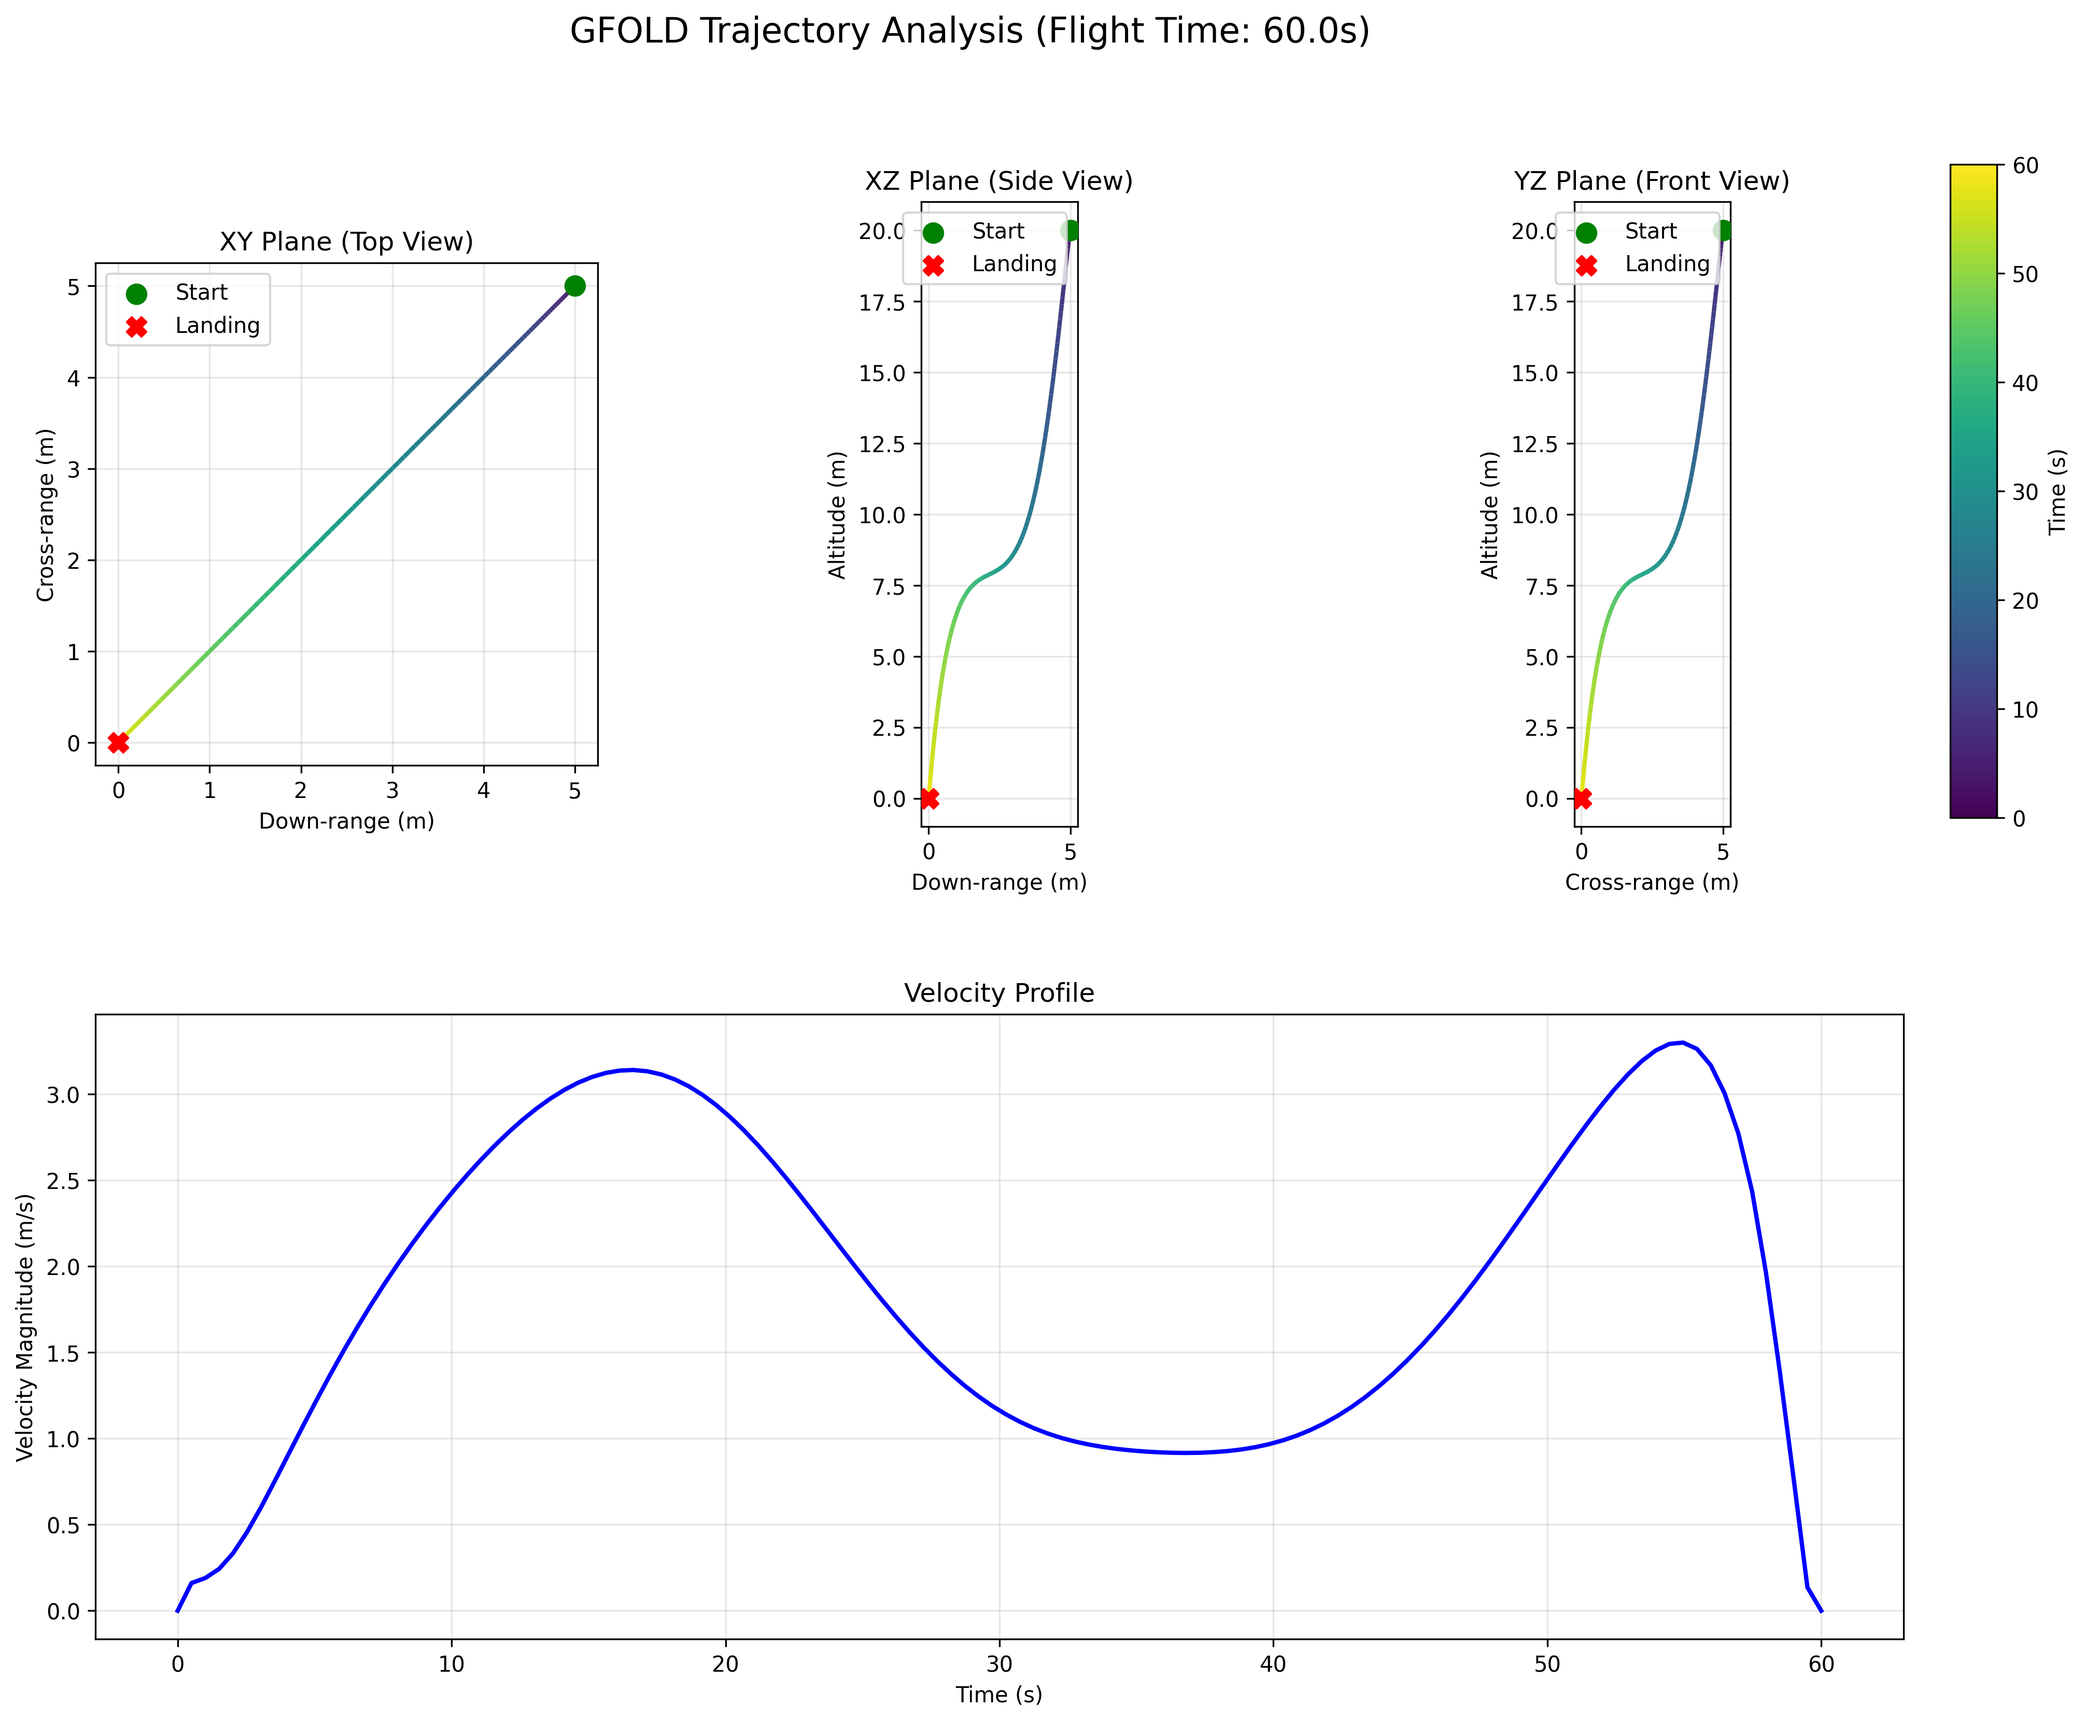
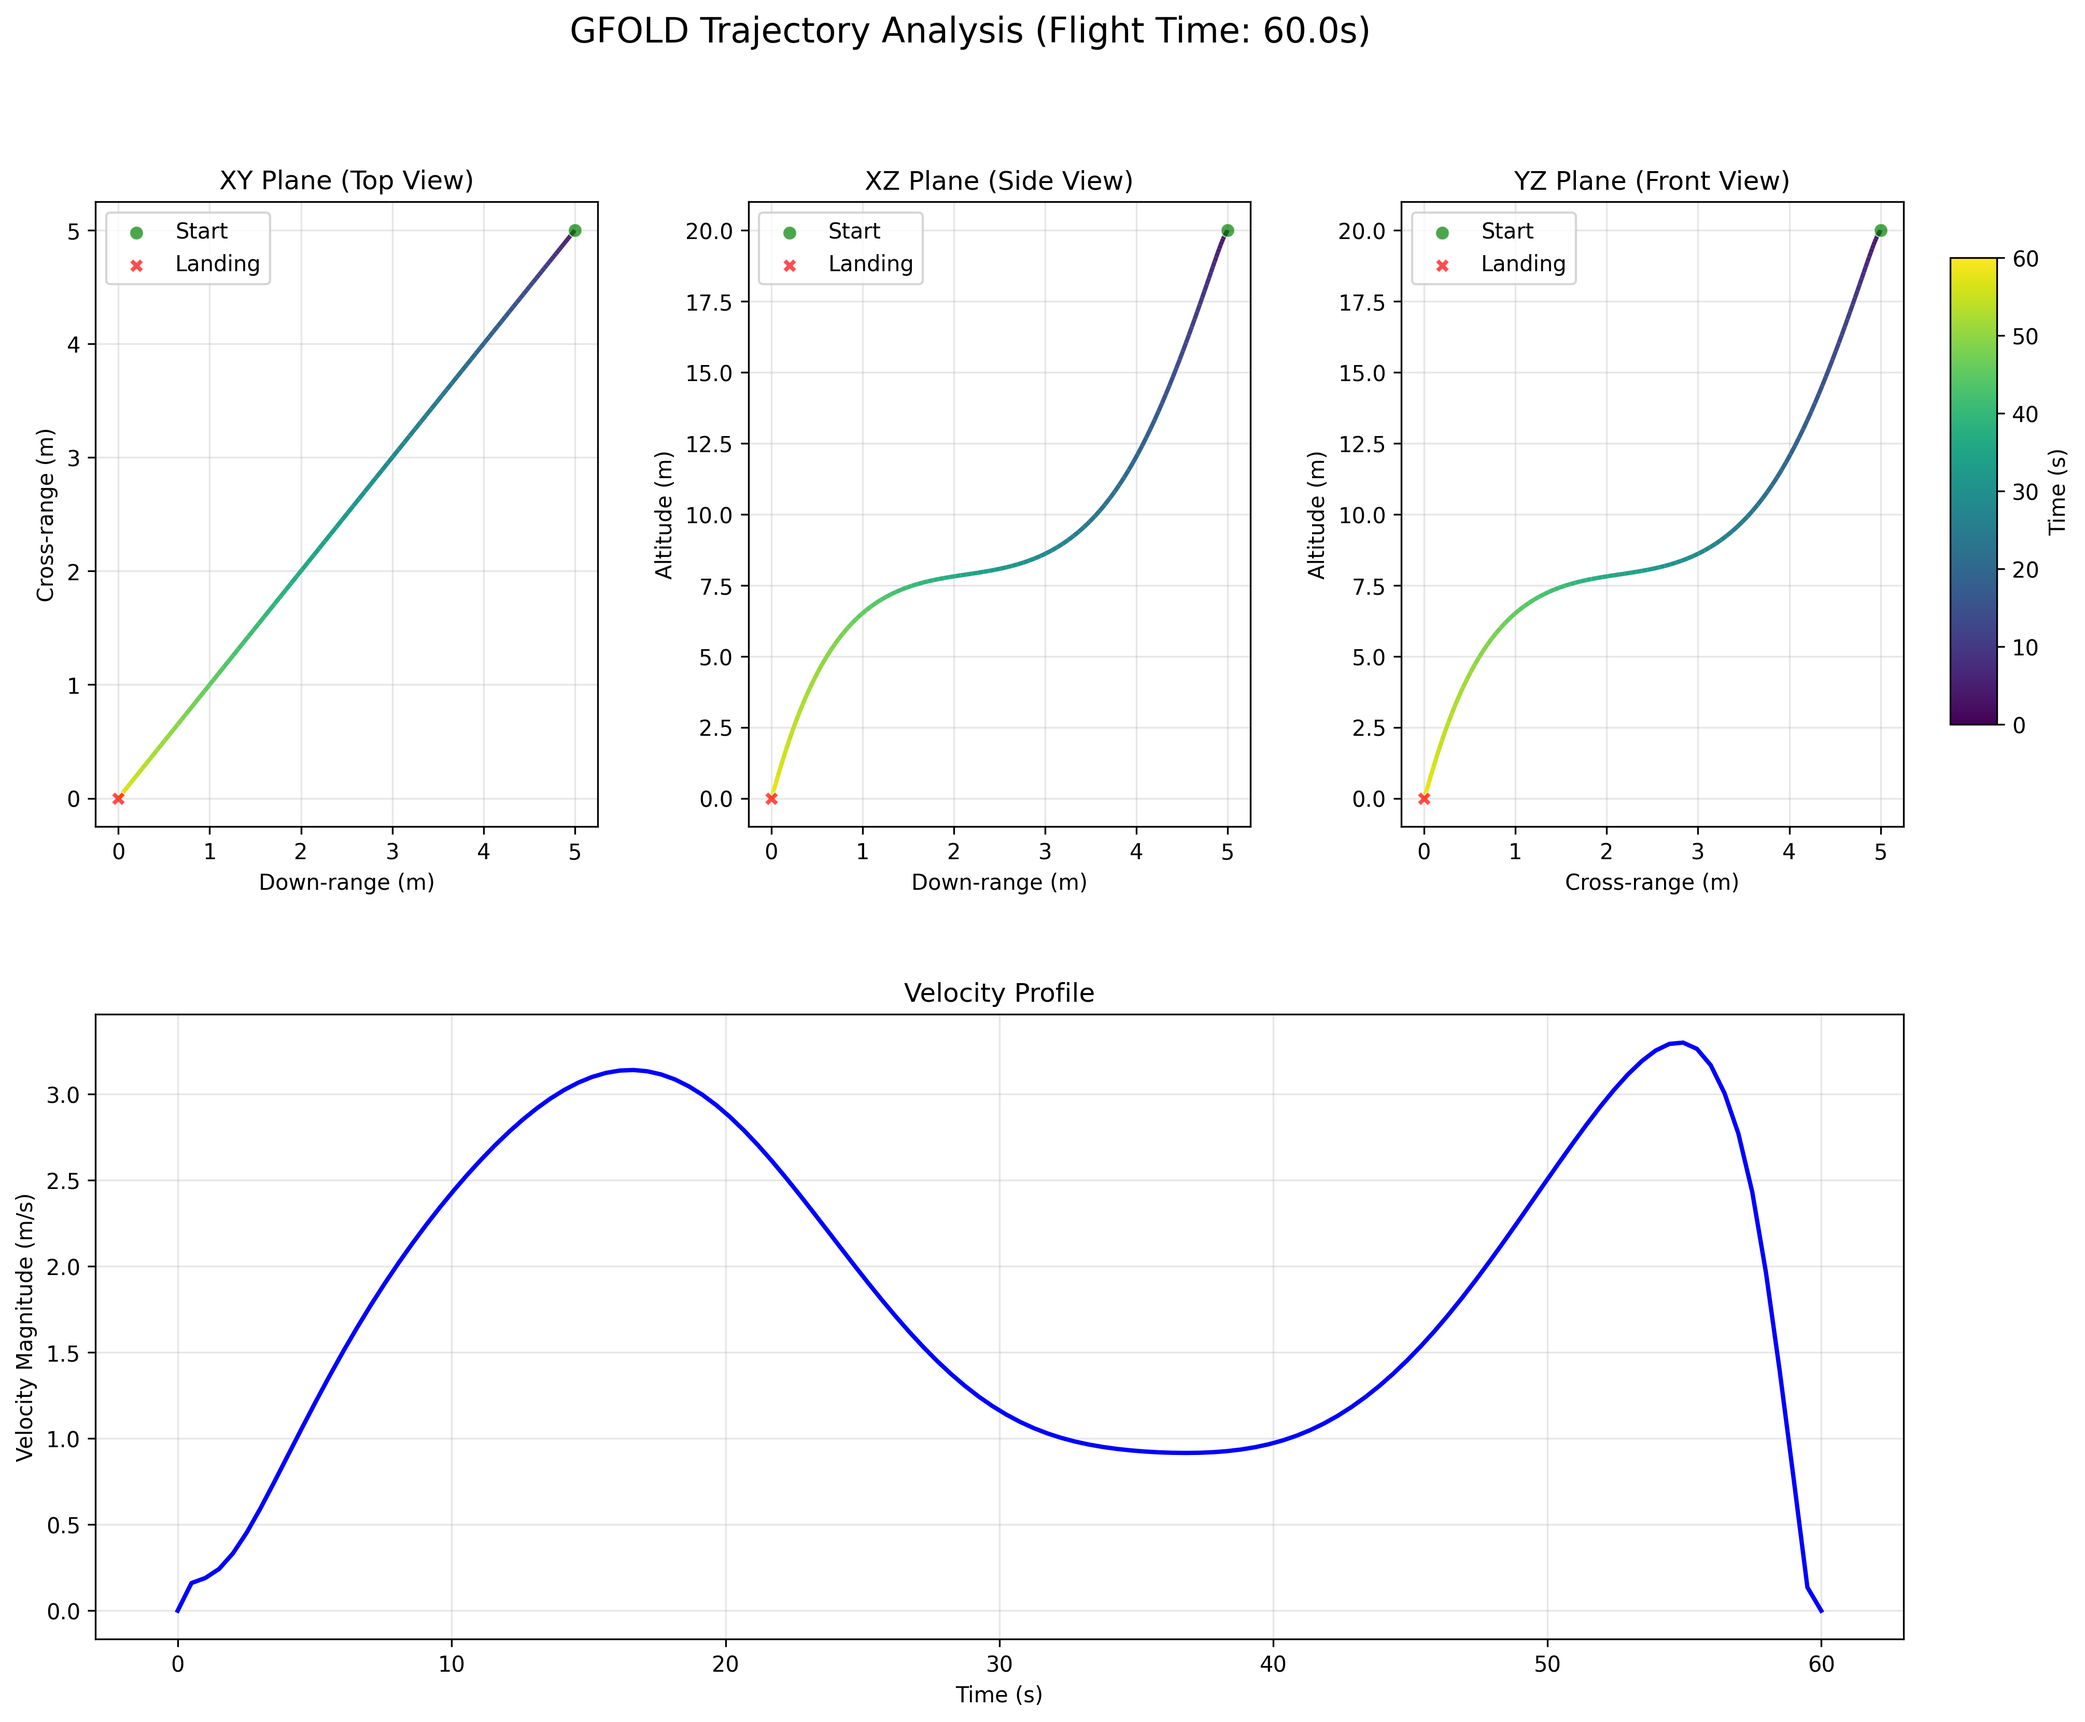
plotting adjusted

diff --git a/src/Trajectory_Generator/plotting.py b/src/Trajectory_Generator/plotting.py
@@ -121,14 +121,16 @@ class TrajectoryPlotter:
                       [z_pos[i], z_pos[i+1]],
                       color=cmap(norm(t[i])), linewidth=2)
 
-        # Add start and end markers
+        # Add start and end markers (more subtle)
         start_color = 'lime' if dark_theme else 'green'
         end_color = 'red'
 
         ax.scatter([x_pos[0]], [y_pos[0]], [z_pos[0]],
-                   color=start_color, s=100, label='Start', marker='o')
+                   color=start_color, s=60, alpha=0.7, label='Start', marker='o',
+                   edgecolors='white', linewidth=0.5)
         ax.scatter([x_pos[-1]], [y_pos[-1]], [z_pos[-1]],
-                   color=end_color, s=100, label='Landing', marker='X')
+                   color=end_color, s=60, alpha=0.7, label='Landing', marker='X',
+                   edgecolors='white', linewidth=0.5)
 
         # Add surface plane (ground level)
         if z_pos.min() <= 0:
@@ -144,8 +146,6 @@ class TrajectoryPlotter:
         ax.set_zlabel('Altitude (m)')
 
         title = f'GFOLD 3D Trajectory (Flight Time: {tf:.1f}s)'
-        if dark_theme:
-            title += ' - Dark Theme'
         ax.set_title(title)
 
         ax.legend()
@@ -153,7 +153,7 @@ class TrajectoryPlotter:
         # Add colorbar for time
         sm = cm.ScalarMappable(norm=norm, cmap=cmap)
         sm.set_array(t)
-        cbar = fig.colorbar(sm, ax=ax, shrink=0.8)
+        cbar = fig.colorbar(sm, ax=ax, shrink=0.6)
         cbar.set_label("Time (s)")
 
         # Save plot
@@ -215,20 +215,21 @@ class TrajectoryPlotter:
             lc.set_linewidth(2)
             ax.add_collection(lc)
 
-            # Add start and end markers
+            # Add start and end markers (more subtle)
             start_color = 'lime' if dark_theme else 'green'
             end_color = 'red'
-            ax.scatter(coord1[0], coord2[0], color=start_color, s=80,
-                       label='Start', marker='o', zorder=5)
-            ax.scatter(coord1[-1], coord2[-1], color=end_color, s=80,
-                       label='Landing', marker='X', zorder=5)
+            ax.scatter(coord1[0], coord2[0], color=start_color, s=40, alpha=0.7,
+                       label='Start', marker='o', zorder=5, edgecolors='white', linewidth=0.5)
+            ax.scatter(coord1[-1], coord2[-1], color=end_color, s=40, alpha=0.7,
+                       label='Landing', marker='X', zorder=5, edgecolors='white', linewidth=0.5)
 
             ax.set_xlabel(label1)
             ax.set_ylabel(label2)
             ax.set_title(title)
             ax.grid(True, alpha=0.3)
             ax.legend()
-            ax.set_aspect('equal', adjustable='box')
+            # Use consistent aspect ratio for all subplots instead of equal
+            ax.set_aspect('auto')
 
         # XY plane (Down-range vs Cross-range)
         ax1 = fig.add_subplot(gs[0, 0])
@@ -260,12 +261,10 @@ class TrajectoryPlotter:
 
         # Add overall title
         title = f'GFOLD Trajectory Analysis (Flight Time: {tf:.1f}s)'
-        if dark_theme:
-            title += ' - Dark Theme'
         fig.suptitle(title, fontsize=16)
 
-        # Add shared colorbar
-        cax = fig.add_axes([0.92, 0.55, 0.02, 0.35])
+        # Add shared colorbar with smaller height
+        cax = fig.add_axes([0.92, 0.6, 0.02, 0.25])
         sm = cm.ScalarMappable(norm=norm, cmap=cmap)
         sm.set_array(t)
         cbar = fig.colorbar(sm, cax=cax)
